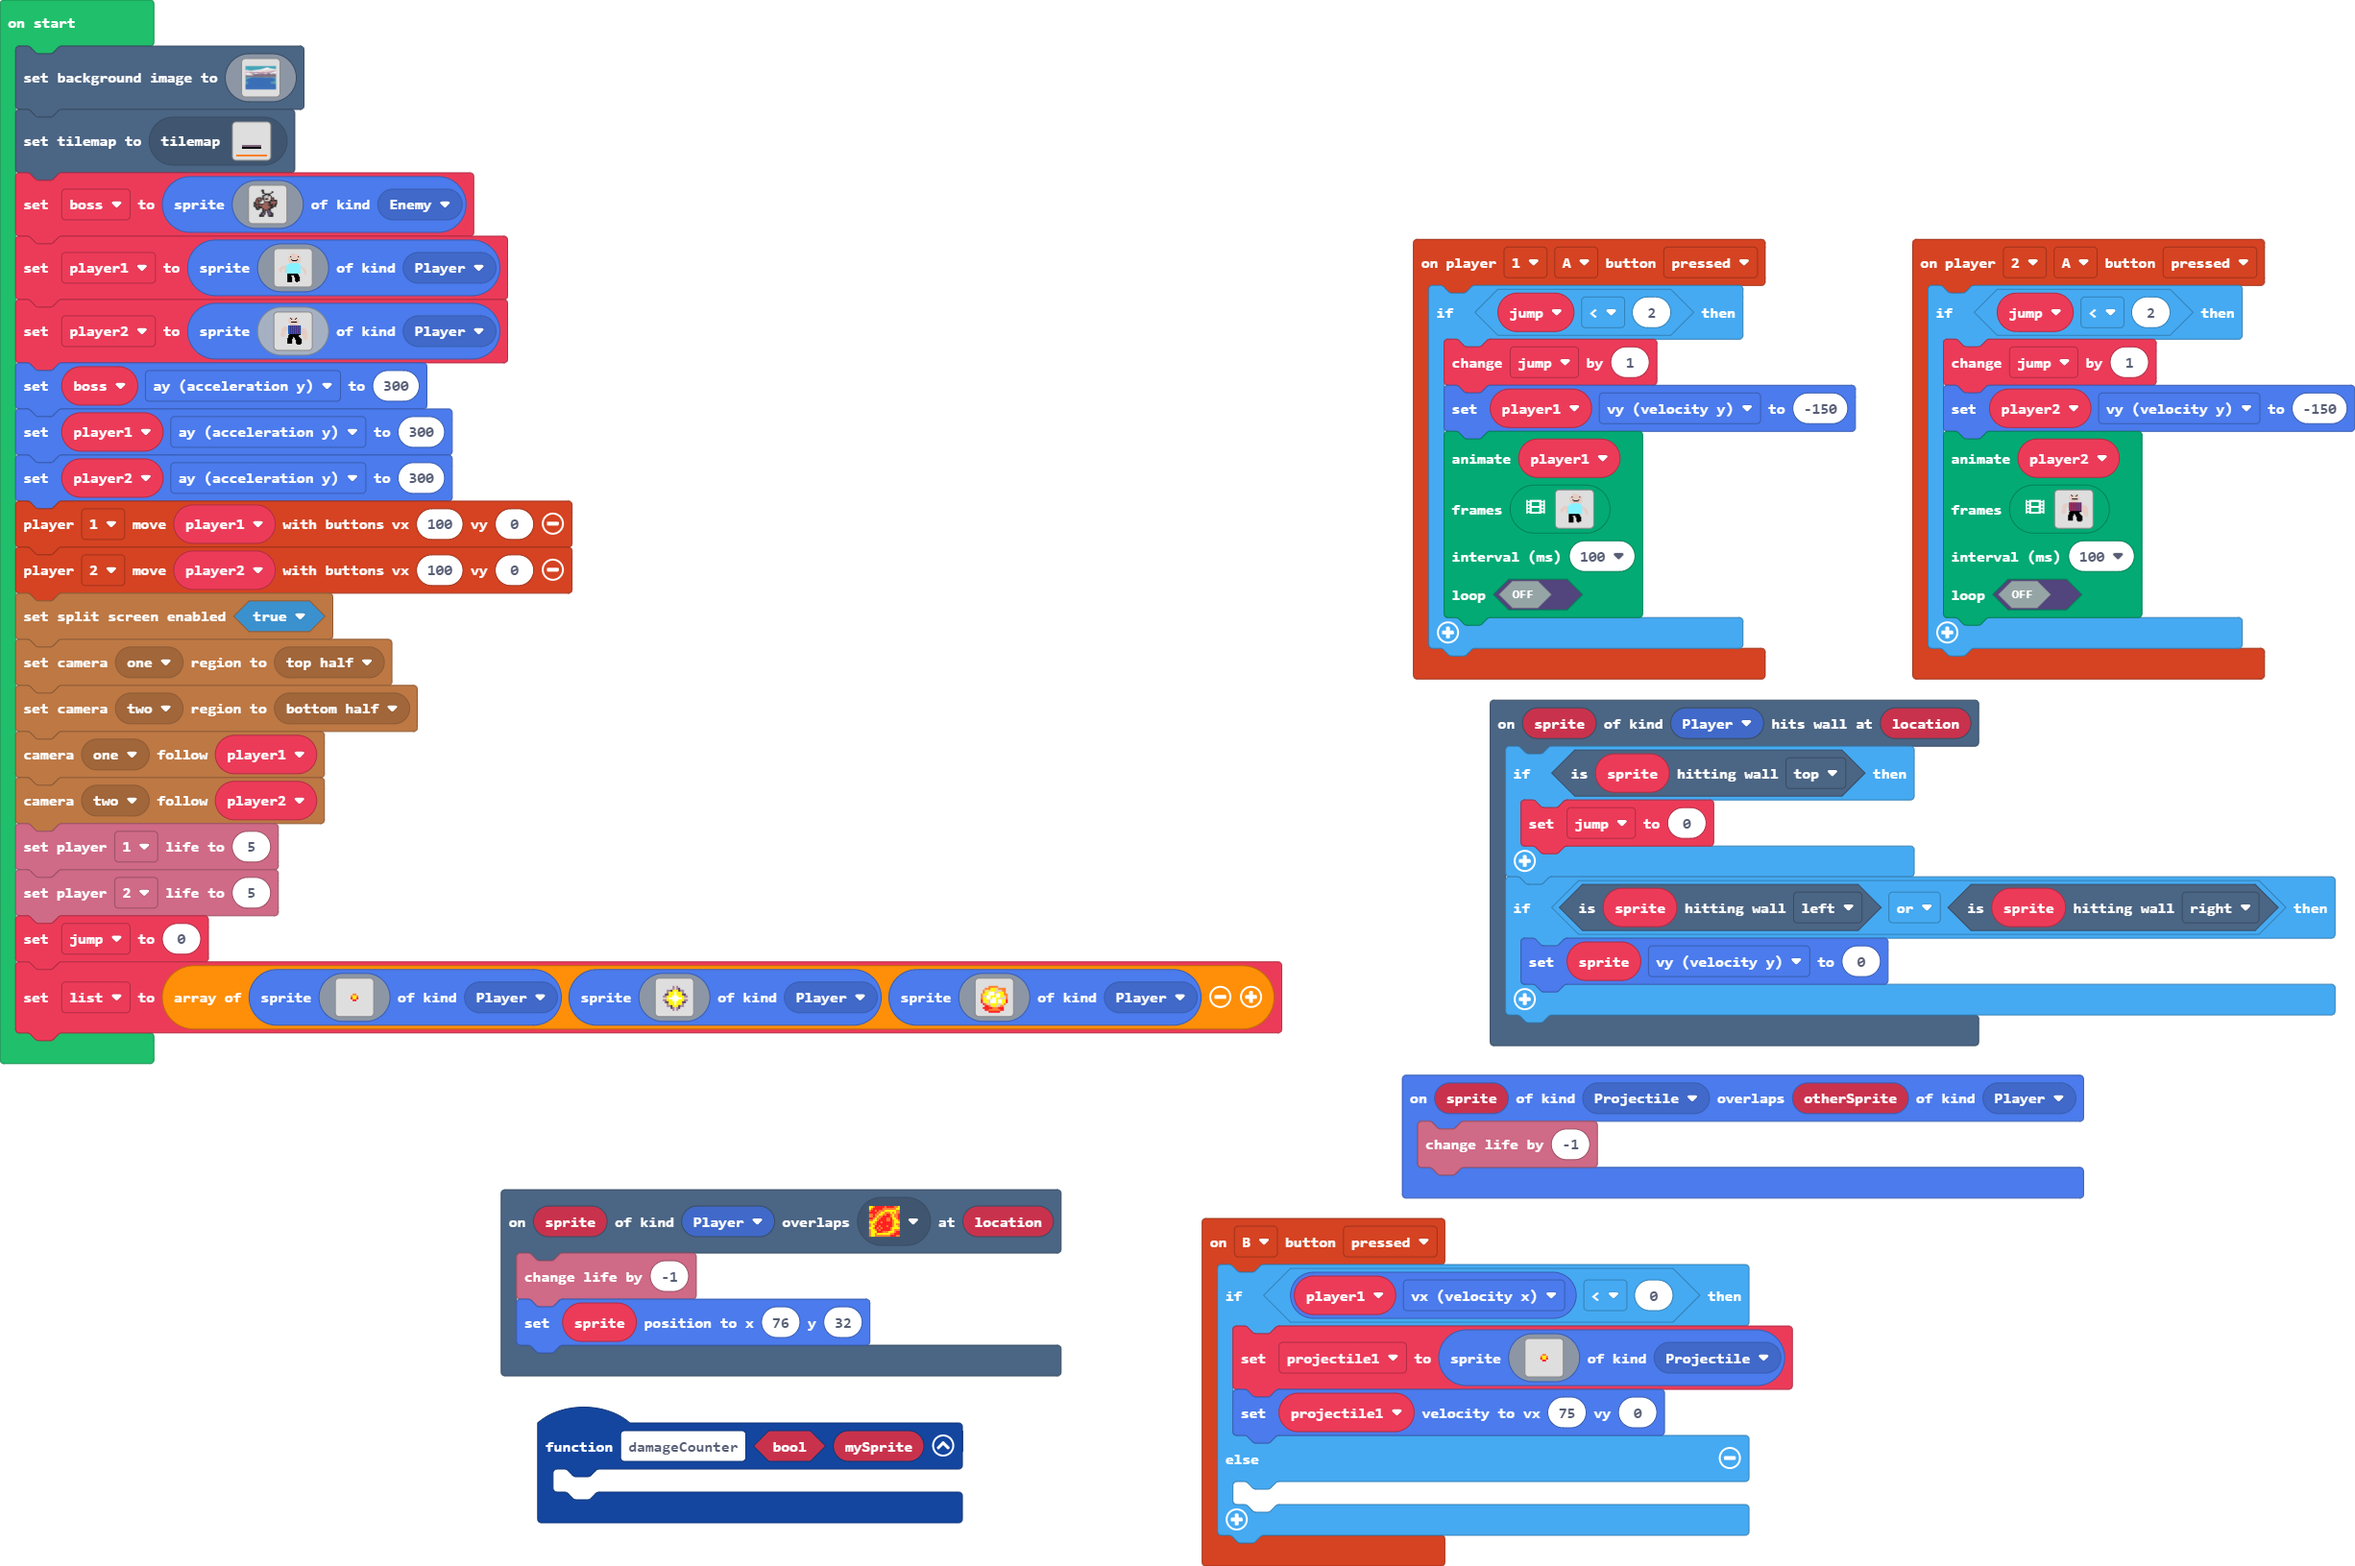
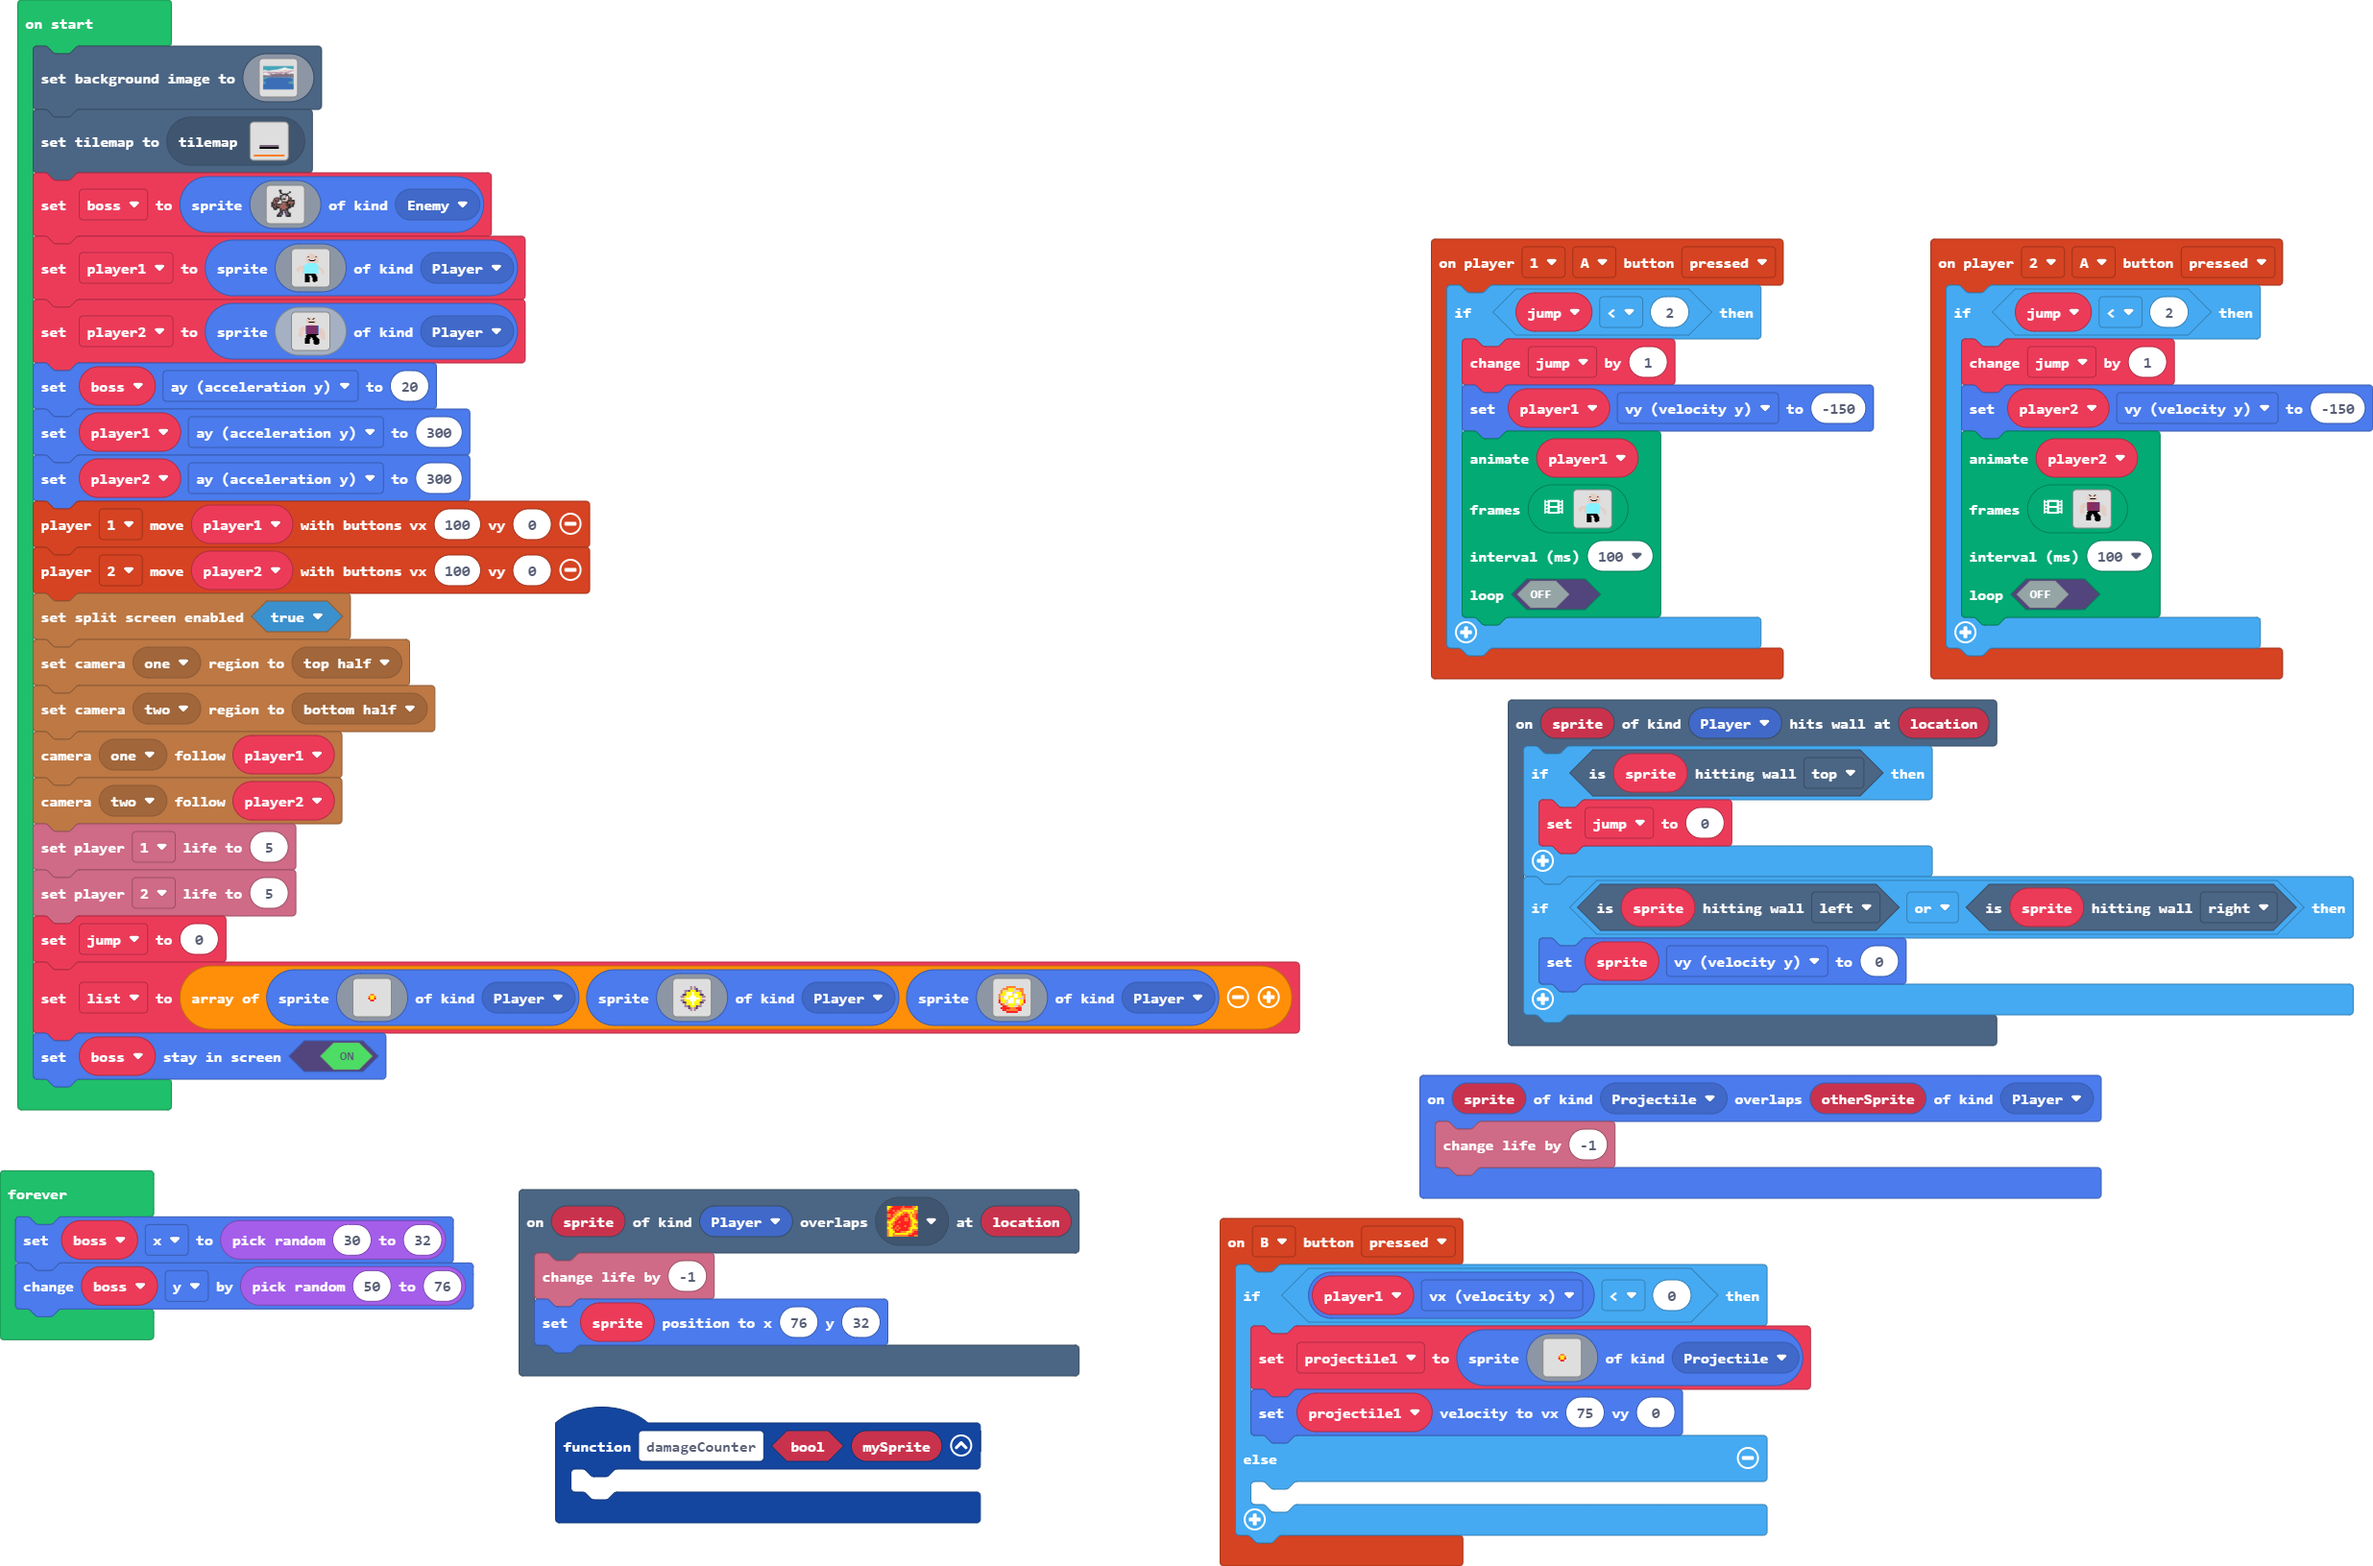
Update main.blocks, main.ts

diff --git a/main.ts b/main.ts
@@ -632,7 +632,7 @@ player2 = sprites.create(img`
     ................................
     ................................
     `, SpriteKind.Player)
-boss.ay = 300
+boss.ay = 20
 player1.ay = 300
 player2.ay = 300
 controller.player1.moveSprite(player1, 100, 0)
@@ -697,3 +697,8 @@ let list = [sprites.create(img`
     . . . 2 2 4 4 4 4 4 4 2 2 . . . 
     . . . . . 2 2 2 2 2 2 . . . . . 
     `, SpriteKind.Player)]
+boss.setStayInScreen(true)
+forever(function () {
+    boss.x = randint(30, 32)
+    boss.y += randint(50, 76)
+})
